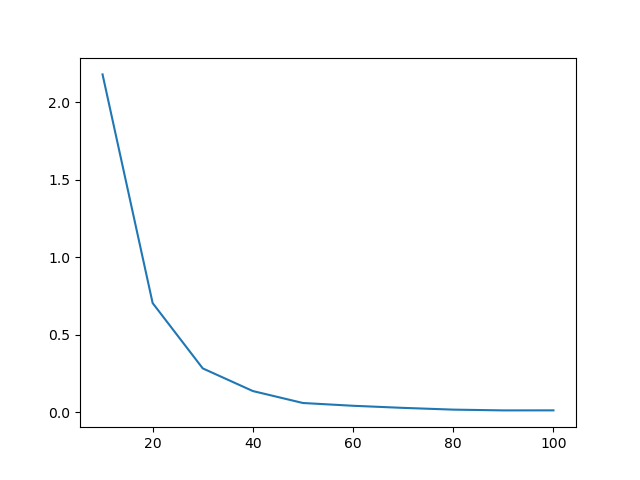
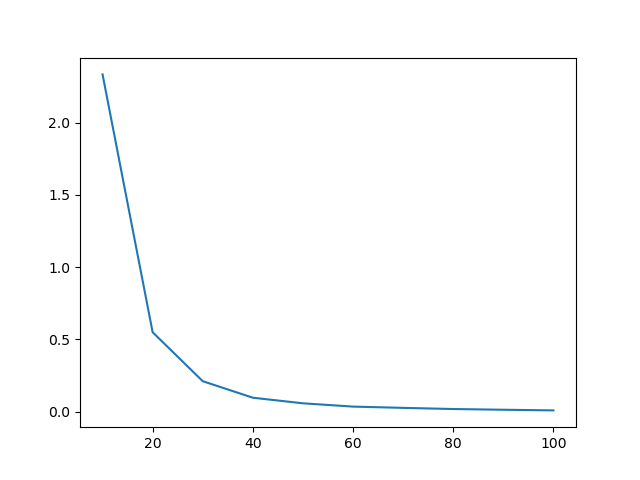
update device

diff --git a/src/main/Main.py b/src/main/Main.py
@@ -33,7 +33,7 @@ def partial_process():
 
 def contrastive_load_process():
     trans = transforms.Compose([transforms.ToTensor()])
-    contrastive_dataset = dsetLoader.ContrastiveDataset(csv_path=Path.small_dataset_csv, images_path=Path.images, transform=trans)
+    contrastive_dataset = dsetLoader.ContrastiveDataset(csv_path=Path.contrastive_train_csv, images_path=Path.images, transform=trans)
     contrastive_dataloader = DataLoader(contrastive_dataset, batch_size=Param.train_batch_size, shuffle=True)
 
     return contrastive_dataloader
@@ -67,6 +67,11 @@ def main():
         print('Epoch Number', epoch)
         for i, data in enumerate(train_dataloader, 0):
             img0, img1 , label = data
+            
+            img0 = img0.to(Param.device)
+            img1 = img1.to(Param.device)
+            label = label.to(Param.device)
+
             optimizer.zero_grad()
             output1, output2 = net(img0,img1)
             loss_contrastive = criterion(output1,output2,label)

diff --git a/src/utils/DatasetLoader.py b/src/utils/DatasetLoader.py
@@ -28,7 +28,8 @@ class ContrastiveDataset(Dataset):
         return img1, img2, torch.from_numpy(np.array([label], dtype=np.float32))
     
     def __len__(self):
-        return len(self.df)
+        # return len(self.df)
+        return 1014
 
 class TripletDataset(Dataset):
     def __init__(self, csv_path, images_path, transform=None, should_invert=True):

diff --git a/src/config/Path.py b/src/config/Path.py
@@ -13,6 +13,5 @@ class Path():
     leg_images =path + '/images/leg/'
 
     contrastive_train_csv = path +'/contrastive_train.csv'
-    small_dataset_csv = path +'/contrastive_train-small.csv'
     triplet_train_csv = path + '/triplet_train.csv'
     testing_csv = path + '/testing.csv'

diff --git a/src/config/Param.py b/src/config/Param.py
@@ -1,4 +1,7 @@
+import torch
+
 class Param():
+    device = torch.device('cuda:0' if torch.cuda.is_available() else 'cpu')
     train_batch_size = 256
     train_number_epochs = 10
     
